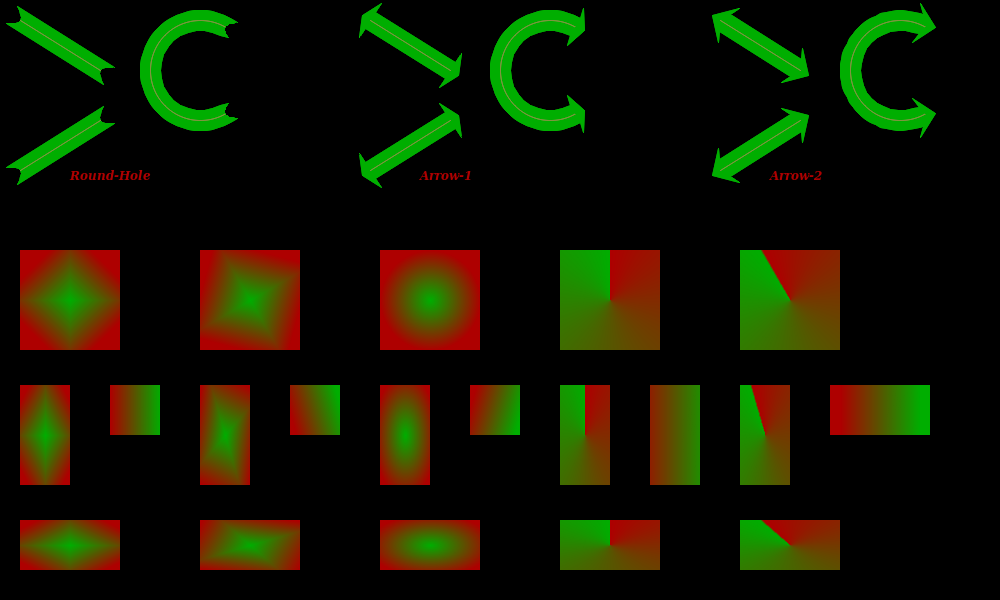
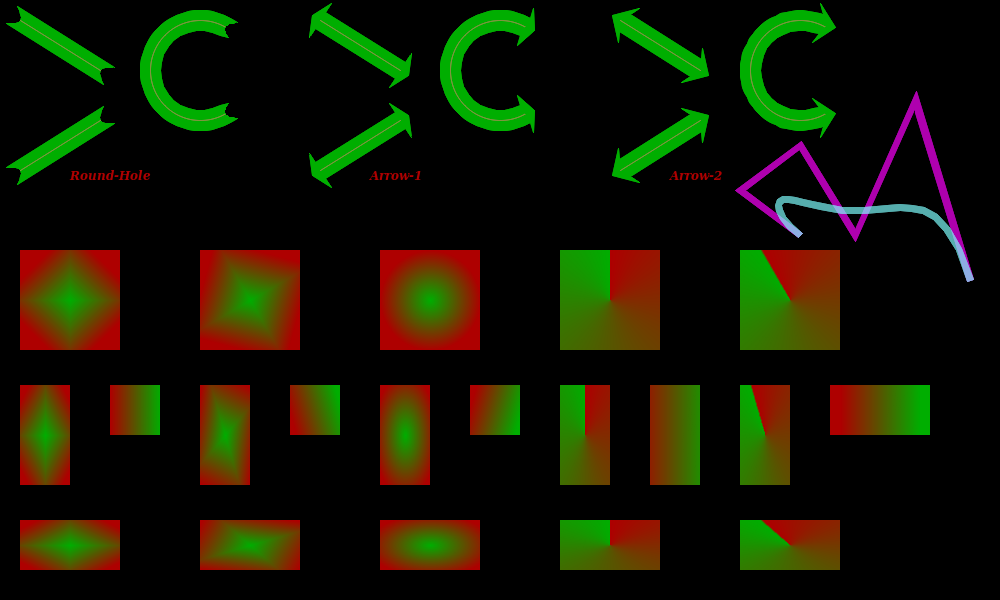
Added the example for N-bezier

Changed region(s): [[0.31, 0.0, 0.961, 0.42], [0.961, 0.42, 0.992, 0.48]]

diff --git a/src/Pt-Gfx/tests/ImagePainterTest2_Draw_Extra.cpp b/src/Pt-Gfx/tests/ImagePainterTest2_Draw_Extra.cpp
@@ -14,6 +14,39 @@ static void testDrawExtra(const char* title, Image& image, Painter& painter)
 
     ip2->setAntiAliasingMode(AntiAliasingMode::Standard);
 
+    // Generic N-bezier
+    AffineMatrix matrix;
+    Path         path;
+
+    matrix.scale(-1, 1);
+    matrix.translate(970, 280);
+
+    path.clear              ();
+    path.beginPath          ();
+    path.moveTo             (  0,    0); // CW
+    path.lineTo             ( 55, -180);
+    path.lineTo             (115,  -45);
+    path.lineTo             (170, -135);
+    path.lineTo             (230,  -90);
+    path.lineTo             (170,  -45);
+    path.endPath            ();
+    ip2->setPen( Pen(Color::fromRgb8(255, 0, 255, 175), 6, Pen::Solid, Pen::ButtCap, Pen::MiterJoin) );
+    ip2->drawPath(path, matrix, false);
+
+    const double cxy[] = { // CW
+          55, -180,
+         115,   45,
+         170, -135,
+         230,  -90
+    };
+    path.clear              ();
+    path.beginPath          ();
+    path.moveTo             (0, 0);
+    path.relGenericNBezierTo(sizeof(cxy) / sizeof(cxy[0]) / 2, cxy, 170, -45);
+    path.endPath            ();
+    ip2->setPen( Pen(Color::fromRgb8(127, 255, 255, 175), 6, Pen::Solid, Pen::ButtCap, Pen::MiterJoin) );
+    ip2->drawPath(path, matrix, false);
+
     // Round-Hole caps
     ip2->setFont( Pt::Gfx::Font(FONT_SPEC_S) );
 
@@ -36,37 +69,37 @@ static void testDrawExtra(const char* title, Image& image, Painter& painter)
     ip2->setFont( Pt::Gfx::Font(FONT_SPEC_S) );
 
     ip2->setPen(penA1CapBJoin);
-    ip2->drawLine( PointF( 20 + 350,  20), PointF(100 + 350,  70) );
-    ip2->drawLine( PointF( 20 + 350, 170), PointF(100 + 350, 120) );
+    ip2->drawLine( PointF( 20 + 300,  20), PointF(100 + 300,  70) );
+    ip2->drawLine( PointF( 20 + 300, 170), PointF(100 + 300, 120) );
     ip2->setPen(penRef);
-    ip2->drawLine( PointF( 20 + 350,  20), PointF(100 + 350,  70) );
-    ip2->drawLine( PointF( 20 + 350, 170), PointF(100 + 350, 120) );
+    ip2->drawLine( PointF( 20 + 300,  20), PointF(100 + 300,  70) );
+    ip2->drawLine( PointF( 20 + 300, 170), PointF(100 + 300, 120) );
 
     ip2->setPen(penA1CapBJoin);
-    ip2->drawArc( PointF (150 + 350, 20), SizeF(100, 100), 60, 300, ArcMode::Open );
+    ip2->drawArc( PointF (150 + 300, 20), SizeF(100, 100), 60, 300, ArcMode::Open );
     ip2->setPen(penRef);
-    ip2->drawArc( PointF (150 + 350, 20), SizeF(100, 100), 60, 300, ArcMode::Open );
+    ip2->drawArc( PointF (150 + 300, 20), SizeF(100, 100), 60, 300, ArcMode::Open );
 
     ip2->setPen(penText);
-    ip2->drawText( PointF(70 + 350, 180), "Arrow-1" );
+    ip2->drawText( PointF(70 + 300, 180), "Arrow-1" );
 
     // Arrow-2 caps
     ip2->setFont( Pt::Gfx::Font(FONT_SPEC_S) );
 
     ip2->setPen(penA2CapBJoin);
-    ip2->drawLine( PointF( 20 + 700,  20), PointF(100 + 700,  70) );
-    ip2->drawLine( PointF( 20 + 700, 170), PointF(100 + 700, 120) );
+    ip2->drawLine( PointF( 20 + 600,  20), PointF(100 + 600,  70) );
+    ip2->drawLine( PointF( 20 + 600, 170), PointF(100 + 600, 120) );
     ip2->setPen(penRef);
-    ip2->drawLine( PointF( 20 + 700,  20), PointF(100 + 700,  70) );
-    ip2->drawLine( PointF( 20 + 700, 170), PointF(100 + 700, 120) );
+    ip2->drawLine( PointF( 20 + 600,  20), PointF(100 + 600,  70) );
+    ip2->drawLine( PointF( 20 + 600, 170), PointF(100 + 600, 120) );
 
     ip2->setPen(penA2CapBJoin);
-    ip2->drawArc( PointF (150 + 700, 20), SizeF(100, 100), 60, 300, ArcMode::Open );
+    ip2->drawArc( PointF (150 + 600, 20), SizeF(100, 100), 60, 300, ArcMode::Open );
     ip2->setPen(penRef);
-    ip2->drawArc( PointF (150 + 700, 20), SizeF(100, 100), 60, 300, ArcMode::Open );
+    ip2->drawArc( PointF (150 + 600, 20), SizeF(100, 100), 60, 300, ArcMode::Open );
 
     ip2->setPen(penText);
-    ip2->drawText( PointF(70 + 700, 180), "Arrow-2" );
+    ip2->drawText( PointF(70 + 600, 180), "Arrow-2" );
 
     // --- Part 1 ---
 

diff --git a/src/Pt-Gfx/Path.cpp b/src/Pt-Gfx/Path.cpp
@@ -27,6 +27,9 @@
   02110-1301 USA
 */
 
+#warning 123
+#include <stdio.h>
+
 #include <Pt/SourceInfo.h>
 
 #include <Pt/Gfx/Path.h>
@@ -423,7 +426,7 @@ void Path::cubicBezierTo(double cx1, double cy1, double cx2, double cy2, double 
     _pathData->curY = y;
 }
 
-void Path::genericNBezierTo(Pt::int32_t controlPointCount, double* cxy, double x, double y)
+void Path::genericNBezierTo(Pt::int32_t controlPointCount, const double* cxy, double x, double y)
 {
     // Check if this function call is valid in the current context
     if( _pathData->empty() || _pathData->lastInstructionMatch(PathData::IT_End) )
@@ -521,7 +524,7 @@ void Path::relCubicBezierTo(double cx1, double cy1, double cx2, double cy2, doub
     _pathData->curY += y;
 }
 
-void Path::relGenericNBezierTo(Pt::int32_t controlPointCount, double* cxy, double x, double y)
+void Path::relGenericNBezierTo(Pt::int32_t controlPointCount, const double* cxy, double x, double y)
 {
     // Check if this function call is valid in the current context
     if( _pathData->empty() || _pathData->lastInstructionMatch(PathData::IT_End) )

diff --git a/include/Pt/Gfx/Path.h b/include/Pt/Gfx/Path.h
@@ -116,7 +116,7 @@ class PT_GFX_API Path {
 
         void cubicBezierTo(double cx1, double cy1, double cx2, double cy2, double x, double y);
 
-        void genericNBezierTo(Pt::int32_t controlPointCount, double* cxy, double x, double y);
+        void genericNBezierTo(Pt::int32_t controlPointCount, const double* cxy, double x, double y);
 
         //
         // Relative coordinate
@@ -132,7 +132,7 @@ class PT_GFX_API Path {
 
         void relCubicBezierTo(double cx1, double cy1, double cx2, double cy2, double x, double y);
 
-        void relGenericNBezierTo(Pt::int32_t controlPointCount, double* cxy, double x, double y);
+        void relGenericNBezierTo(Pt::int32_t controlPointCount, const double* cxy, double x, double y);
 
         //
         // Generators

diff --git a/src/Pt-Gfx/tests/ImagePainterTest2.cpp b/src/Pt-Gfx/tests/ImagePainterTest2.cpp
@@ -67,11 +67,11 @@ using namespace Pt::Gfx;
 
 // General settings for Pt-Gfx
 #define DO_TEST_DRAW    1
-#define DO_BENCHMARKING 1
+#define DO_BENCHMARKING 0
 
 // Detailed-test enable settings for Pt-Gfx
 #define TEST_SOURCECOPY                         1
-#define TEST_SOURCEOVER                         0
+#define TEST_SOURCEOVER                         1
 
 #define TEST_DRAW_SOLID_LINE_AND_TEXT           0 // (including bezier)
 #define TEST_DRAW_PATTERNED_LINE                0 // (including bezier)

diff --git a/src/Pt-Gfx/ImagePainter2.cpp b/src/Pt-Gfx/ImagePainter2.cpp
@@ -1184,6 +1184,10 @@ void ImagePainter2::drawPath(const Path& path2d, const AffineMatrix& matrix2d, b
     path2d.generatePoints(pointsF, smoothness);
     matrix2d.transformPoints(pointsF.data(), pointsF.size());
 
+    //for(size_t i = 0; i < pointsF.size(); ++i)
+    //    printf("TrnPts: %5.1f, %5.1f\n", pointsF[i].x(), pointsF[i].y());
+    //printf("\n");
+
     drawPolyline(pointsF.data(), pointsF.size(), autoClose);
 }
 
